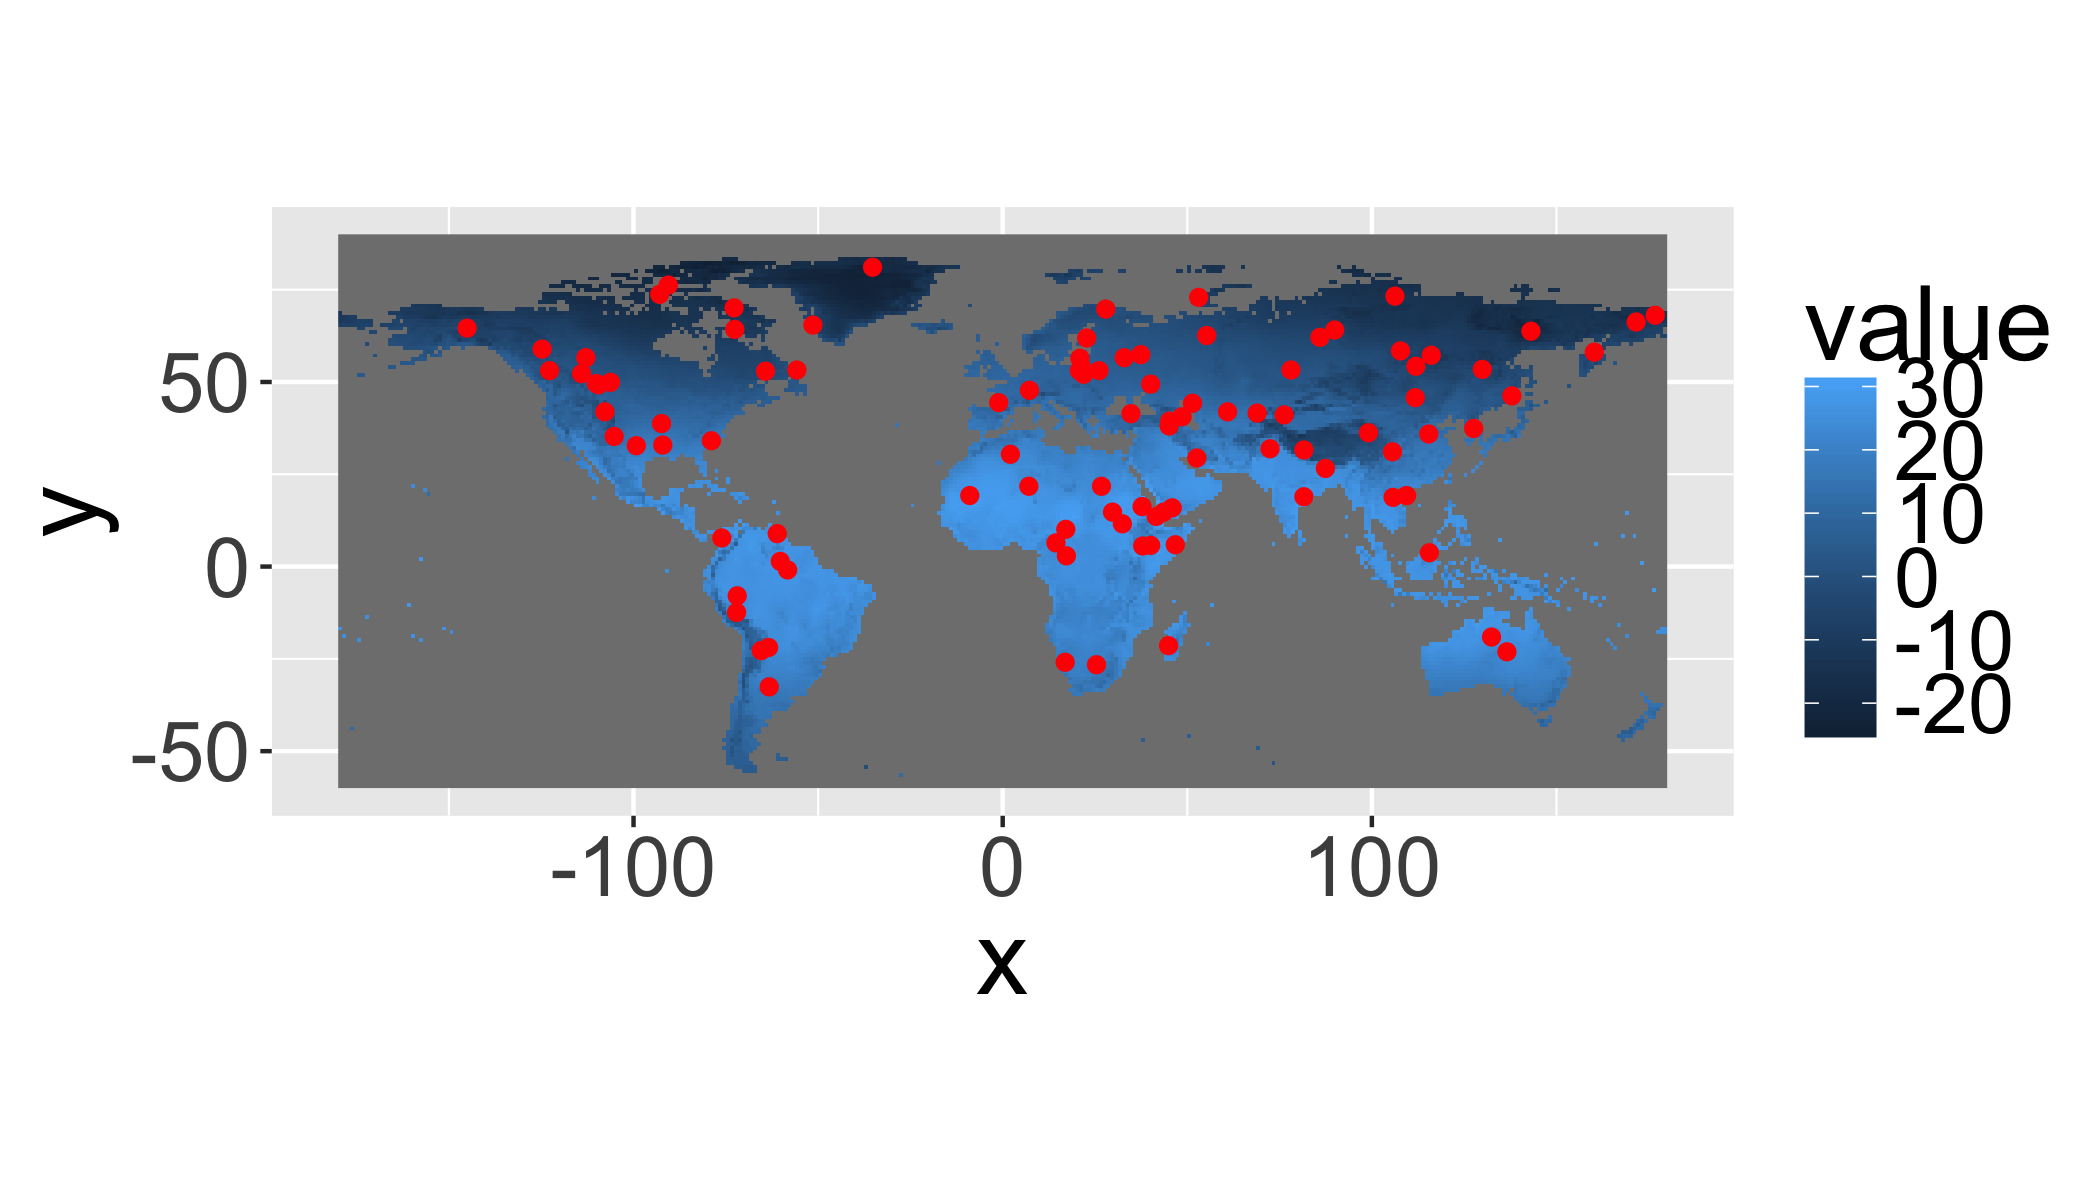
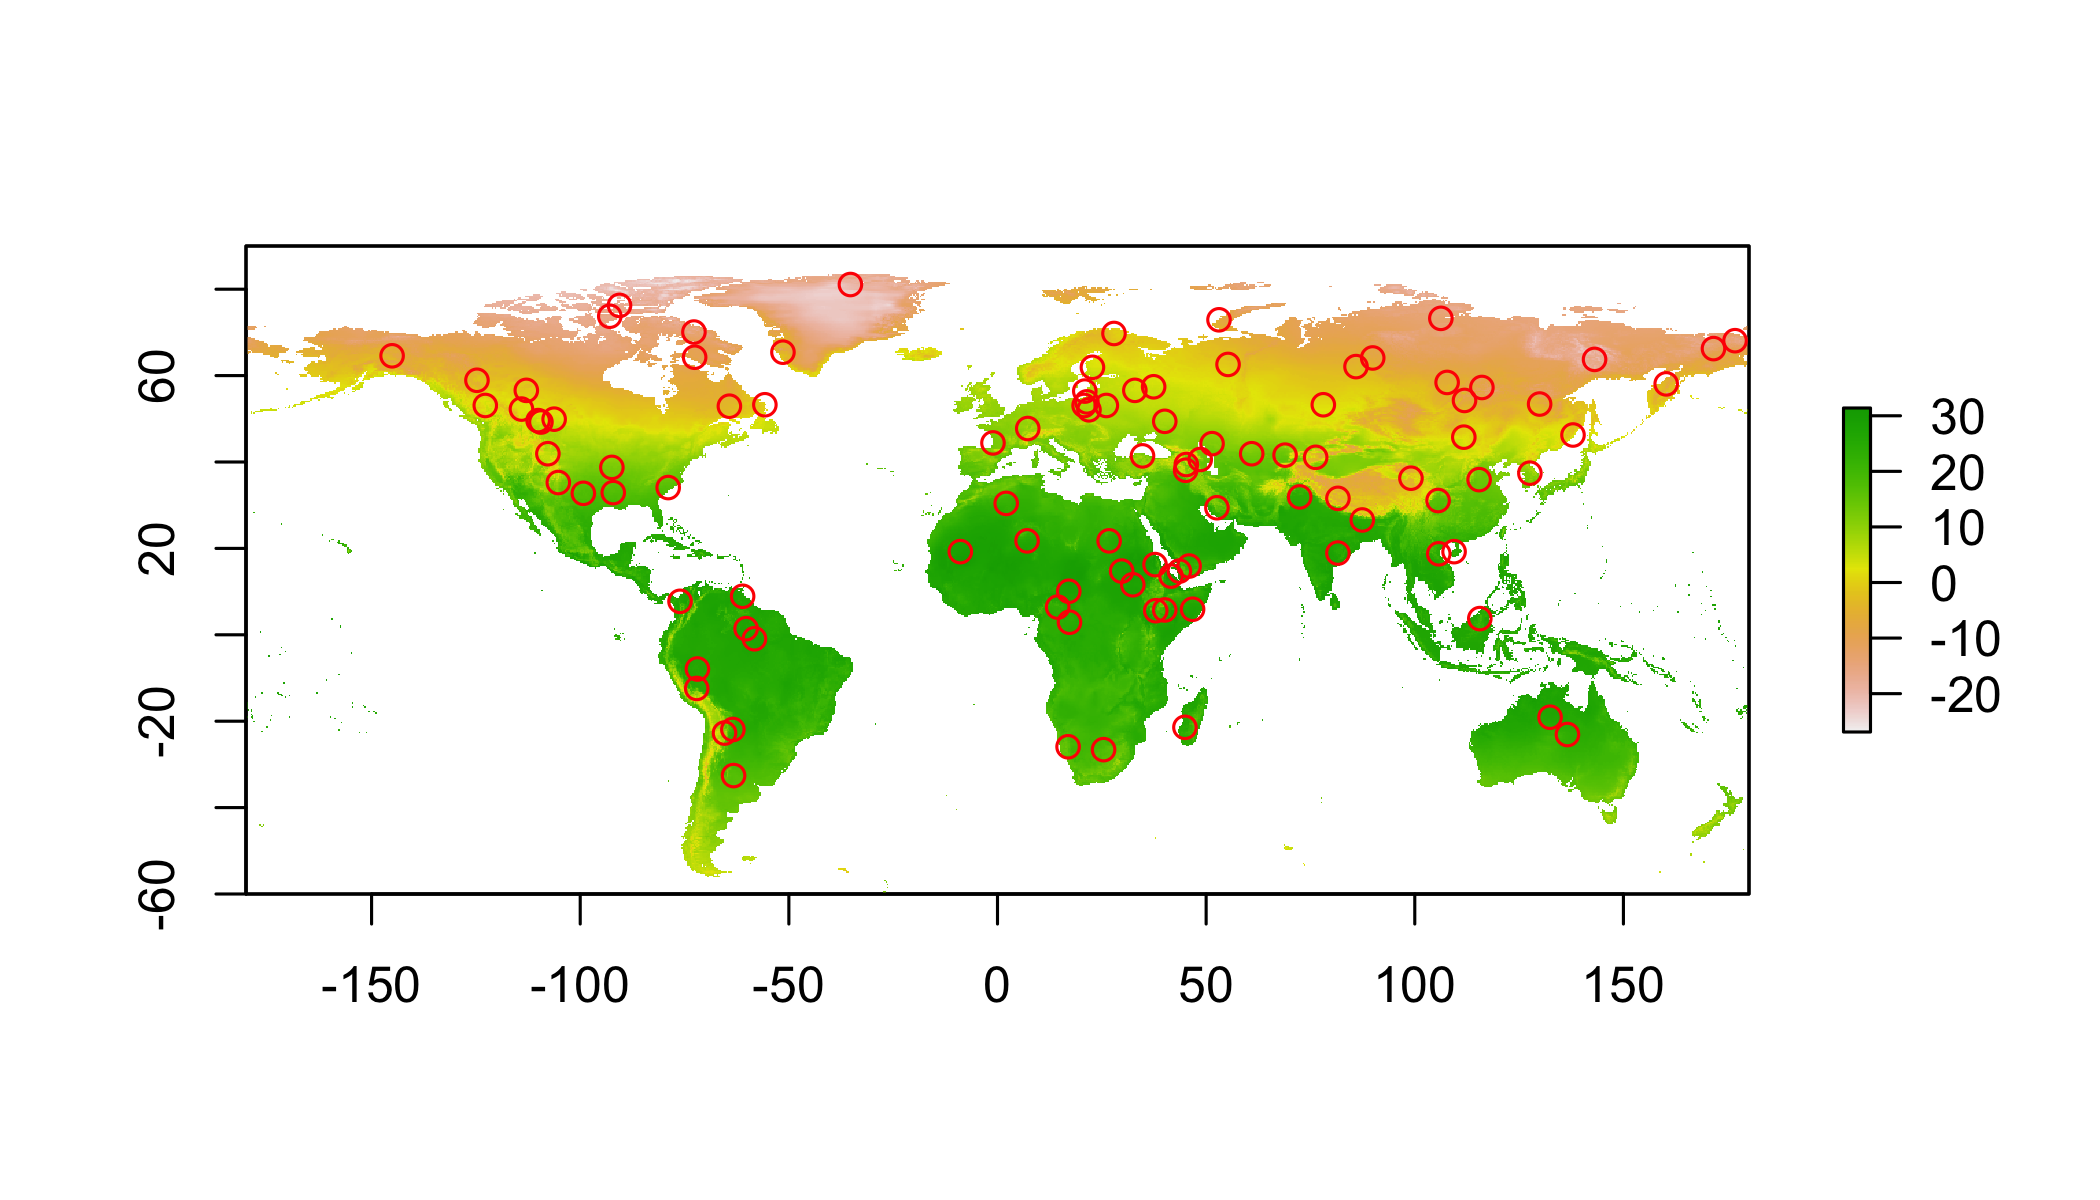
simplify

diff --git a/05_Raster.html b/05_Raster.html
@@ -1168,12 +1168,8 @@ head(pts_data)</code></pre>
 </div>
 <div id="plot-the-global-dataset-with-the-random-points" class="section level3">
 <h3><span class="header-section-number">5.9.3</span> Plot the global dataset with the random points</h3>
-<pre class="r"><code>gplot(clim[[1]])+
-  geom_raster(aes(fill=value))+
-  geom_point(
-    data=as.data.frame(pts),
-    aes(x=x,y=y),col=&quot;red&quot;)+
-  coord_equal()</code></pre>
+<pre class="r"><code>plot(clim[[1]])
+points(pts,col=&#39;red&#39;)</code></pre>
 <p><img src="05_Raster_files/figure-html/unnamed-chunk-56-1.png" /><!-- --></p>
 <!-- ### Summarize climate data at point locations -->
 <!-- Use `gather()` to reshape the climate data for easy plotting with ggplot. -->
@@ -1246,31 +1242,30 @@ head(transl)</code></pre>
                   order=order))+
   geom_line()</code></pre>
 <p><img src="05_Raster_files/figure-html/unnamed-chunk-61-1.png" /><!-- --></p>
+<!-- ### _Zonal_ statistics -->
+<!-- Calculate mean annual temperature averaged by province (polygons). -->
+<!-- ```{r} -->
+<!-- rsp=raster::extract(x=r1, -->
+<!--                     y=za, -->
+<!--                     fun=mean, -->
+<!--                     sp=T) -->
+<!-- #spplot(rsp,zcol="bio1") -->
+<!-- ``` -->
+<!-- ```{r,eval=FALSE} -->
+<!-- ## add the ID to the dataframe itself for easier indexing in the map -->
+<!-- rsp$id=as.numeric(rownames(rsp@data)) -->
+<!-- ## create fortified version for plotting with ggplot() -->
+<!-- frsp=fortify(rsp,region="id") -->
+<!-- ggplot(rsp@data, aes(map_id = id, fill=bio1)) + -->
+<!--     expand_limits(x = frsp$long, y = frsp$lat)+ -->
+<!--     scale_fill_gradientn( -->
+<!--       colours = c("grey","goldenrod","darkgreen","green"))+ -->
+<!--     coord_map()+ -->
+<!--     geom_map(map = frsp) -->
+<!-- ``` -->
+<!-- <img src="05_assets/slow_zonal_plot.png" alt="alt text" width="75%">  -->
+<!-- > Not a very exciting plot, but then again, we did just ask for the mean value across the province. For more details about plotting spatialPolygons, see [here](https://github.com/hadley/ggplot2/wiki/plotting-polygon-shapefiles) -->
 </div>
-</div>
-<div id="zonal-statistics" class="section level3">
-<h3><span class="header-section-number">5.9.6</span> <em>Zonal</em> statistics</h3>
-<p>Calculate mean annual temperature averaged by province (polygons).</p>
-<pre class="r"><code>rsp=raster::extract(x=r1,
-                    y=za,
-                    fun=mean,
-                    sp=T)
-#spplot(rsp,zcol=&quot;bio1&quot;)</code></pre>
-<pre class="r"><code>## add the ID to the dataframe itself for easier indexing in the map
-rsp$id=as.numeric(rownames(rsp@data))
-## create fortified version for plotting with ggplot()
-frsp=fortify(rsp,region=&quot;id&quot;)
-
-ggplot(rsp@data, aes(map_id = id, fill=bio1)) +
-    expand_limits(x = frsp$long, y = frsp$lat)+
-    scale_fill_gradientn(
-      colours = c(&quot;grey&quot;,&quot;goldenrod&quot;,&quot;darkgreen&quot;,&quot;green&quot;))+
-    coord_map()+
-    geom_map(map = frsp)</code></pre>
-<p><img src="05_assets/slow_zonal_plot.png" alt="alt text" width="75%"></p>
-<blockquote>
-<p>Not a very exciting plot, but then again, we did just ask for the mean value across the province. For more details about plotting spatialPolygons, see <a href="https://github.com/hadley/ggplot2/wiki/plotting-polygon-shapefiles">here</a></p>
-</blockquote>
 </div>
 </div>
 <div id="example-workflow" class="section level2">
@@ -1390,7 +1385,7 @@ head(transl)</code></pre>
       colors=c(&quot;blue&quot;,&quot;green&quot;,&quot;red&quot;),
       name=&quot;Month&quot;)+
     geom_line()</code></pre>
-<p><img src="05_Raster_files/figure-html/unnamed-chunk-72-1.png" /><!-- --></p>
+<p><img src="05_Raster_files/figure-html/unnamed-chunk-70-1.png" /><!-- --></p>
 <p>Or the same data in a levelplot:</p>
 <pre class="r"><code>ggplot(transl,
        aes(x=lon,y=monthname,
@@ -1400,7 +1395,7 @@ head(transl)</code></pre>
       palette=&quot;PuBuGn&quot;,
       name=&quot;Tmax&quot;)+
     geom_raster()</code></pre>
-<p><img src="05_Raster_files/figure-html/unnamed-chunk-73-1.png" /><!-- --></p>
+<p><img src="05_Raster_files/figure-html/unnamed-chunk-71-1.png" /><!-- --></p>
 <!--
 ## Raster Processing
 

diff --git a/05_Raster.md b/05_Raster.md
@@ -1171,15 +1171,12 @@ head(pts_data)
 ### Plot the global dataset with the random points
 
 ```r
-gplot(clim[[1]])+
-  geom_raster(aes(fill=value))+
-  geom_point(
-    data=as.data.frame(pts),
-    aes(x=x,y=y),col="red")+
-  coord_equal()
+plot(clim[[1]])
+points(pts,col='red')
 ```
 
 ![](05_Raster_files/figure-html/unnamed-chunk-56-1.png)<!-- -->
+
 
 <!-- ### Summarize climate data at point locations -->
 <!-- Use `gather()` to reshape the climate data for easy plotting with ggplot. -->
@@ -1282,36 +1279,35 @@ ggplot(transl,aes(x=lon,y=value,
 
 
 
-### _Zonal_ statistics
-Calculate mean annual temperature averaged by province (polygons).
+<!-- ### _Zonal_ statistics -->
+<!-- Calculate mean annual temperature averaged by province (polygons). -->
+
+<!-- ```{r} -->
+<!-- rsp=raster::extract(x=r1, -->
+<!--                     y=za, -->
+<!--                     fun=mean, -->
+<!--                     sp=T) -->
+<!-- #spplot(rsp,zcol="bio1") -->
+<!-- ``` -->
+
+<!-- ```{r,eval=FALSE} -->
+<!-- ## add the ID to the dataframe itself for easier indexing in the map -->
+<!-- rsp$id=as.numeric(rownames(rsp@data)) -->
+<!-- ## create fortified version for plotting with ggplot() -->
+<!-- frsp=fortify(rsp,region="id") -->
+
+<!-- ggplot(rsp@data, aes(map_id = id, fill=bio1)) + -->
+<!--     expand_limits(x = frsp$long, y = frsp$lat)+ -->
+<!--     scale_fill_gradientn( -->
+<!--       colours = c("grey","goldenrod","darkgreen","green"))+ -->
+<!--     coord_map()+ -->
+<!--     geom_map(map = frsp) -->
+
+<!-- ``` -->
+<!-- <img src="05_assets//slow_zonal_plot.png" alt="alt text" width="75%">  -->
 
 
-```r
-rsp=raster::extract(x=r1,
-                    y=za,
-                    fun=mean,
-                    sp=T)
-#spplot(rsp,zcol="bio1")
-```
-
-
-```r
-## add the ID to the dataframe itself for easier indexing in the map
-rsp$id=as.numeric(rownames(rsp@data))
-## create fortified version for plotting with ggplot()
-frsp=fortify(rsp,region="id")
-
-ggplot(rsp@data, aes(map_id = id, fill=bio1)) +
-    expand_limits(x = frsp$long, y = frsp$lat)+
-    scale_fill_gradientn(
-      colours = c("grey","goldenrod","darkgreen","green"))+
-    coord_map()+
-    geom_map(map = frsp)
-```
-<img src="05_assets//slow_zonal_plot.png" alt="alt text" width="75%"> 
-
-
-> Not a very exciting plot, but then again, we did just ask for the mean value across the province. For more details about plotting spatialPolygons, see [here](https://github.com/hadley/ggplot2/wiki/plotting-polygon-shapefiles)
+<!-- > Not a very exciting plot, but then again, we did just ask for the mean value across the province. For more details about plotting spatialPolygons, see [here](https://github.com/hadley/ggplot2/wiki/plotting-polygon-shapefiles) -->
 
 ## Example Workflow
 
@@ -1493,7 +1489,7 @@ ggplot(transl,
     geom_line()
 ```
 
-![](05_Raster_files/figure-html/unnamed-chunk-72-1.png)<!-- -->
+![](05_Raster_files/figure-html/unnamed-chunk-70-1.png)<!-- -->
 
 Or the same data in a levelplot:
 
@@ -1508,7 +1504,7 @@ ggplot(transl,
     geom_raster()
 ```
 
-![](05_Raster_files/figure-html/unnamed-chunk-73-1.png)<!-- -->
+![](05_Raster_files/figure-html/unnamed-chunk-71-1.png)<!-- -->
 
 
 <!--
